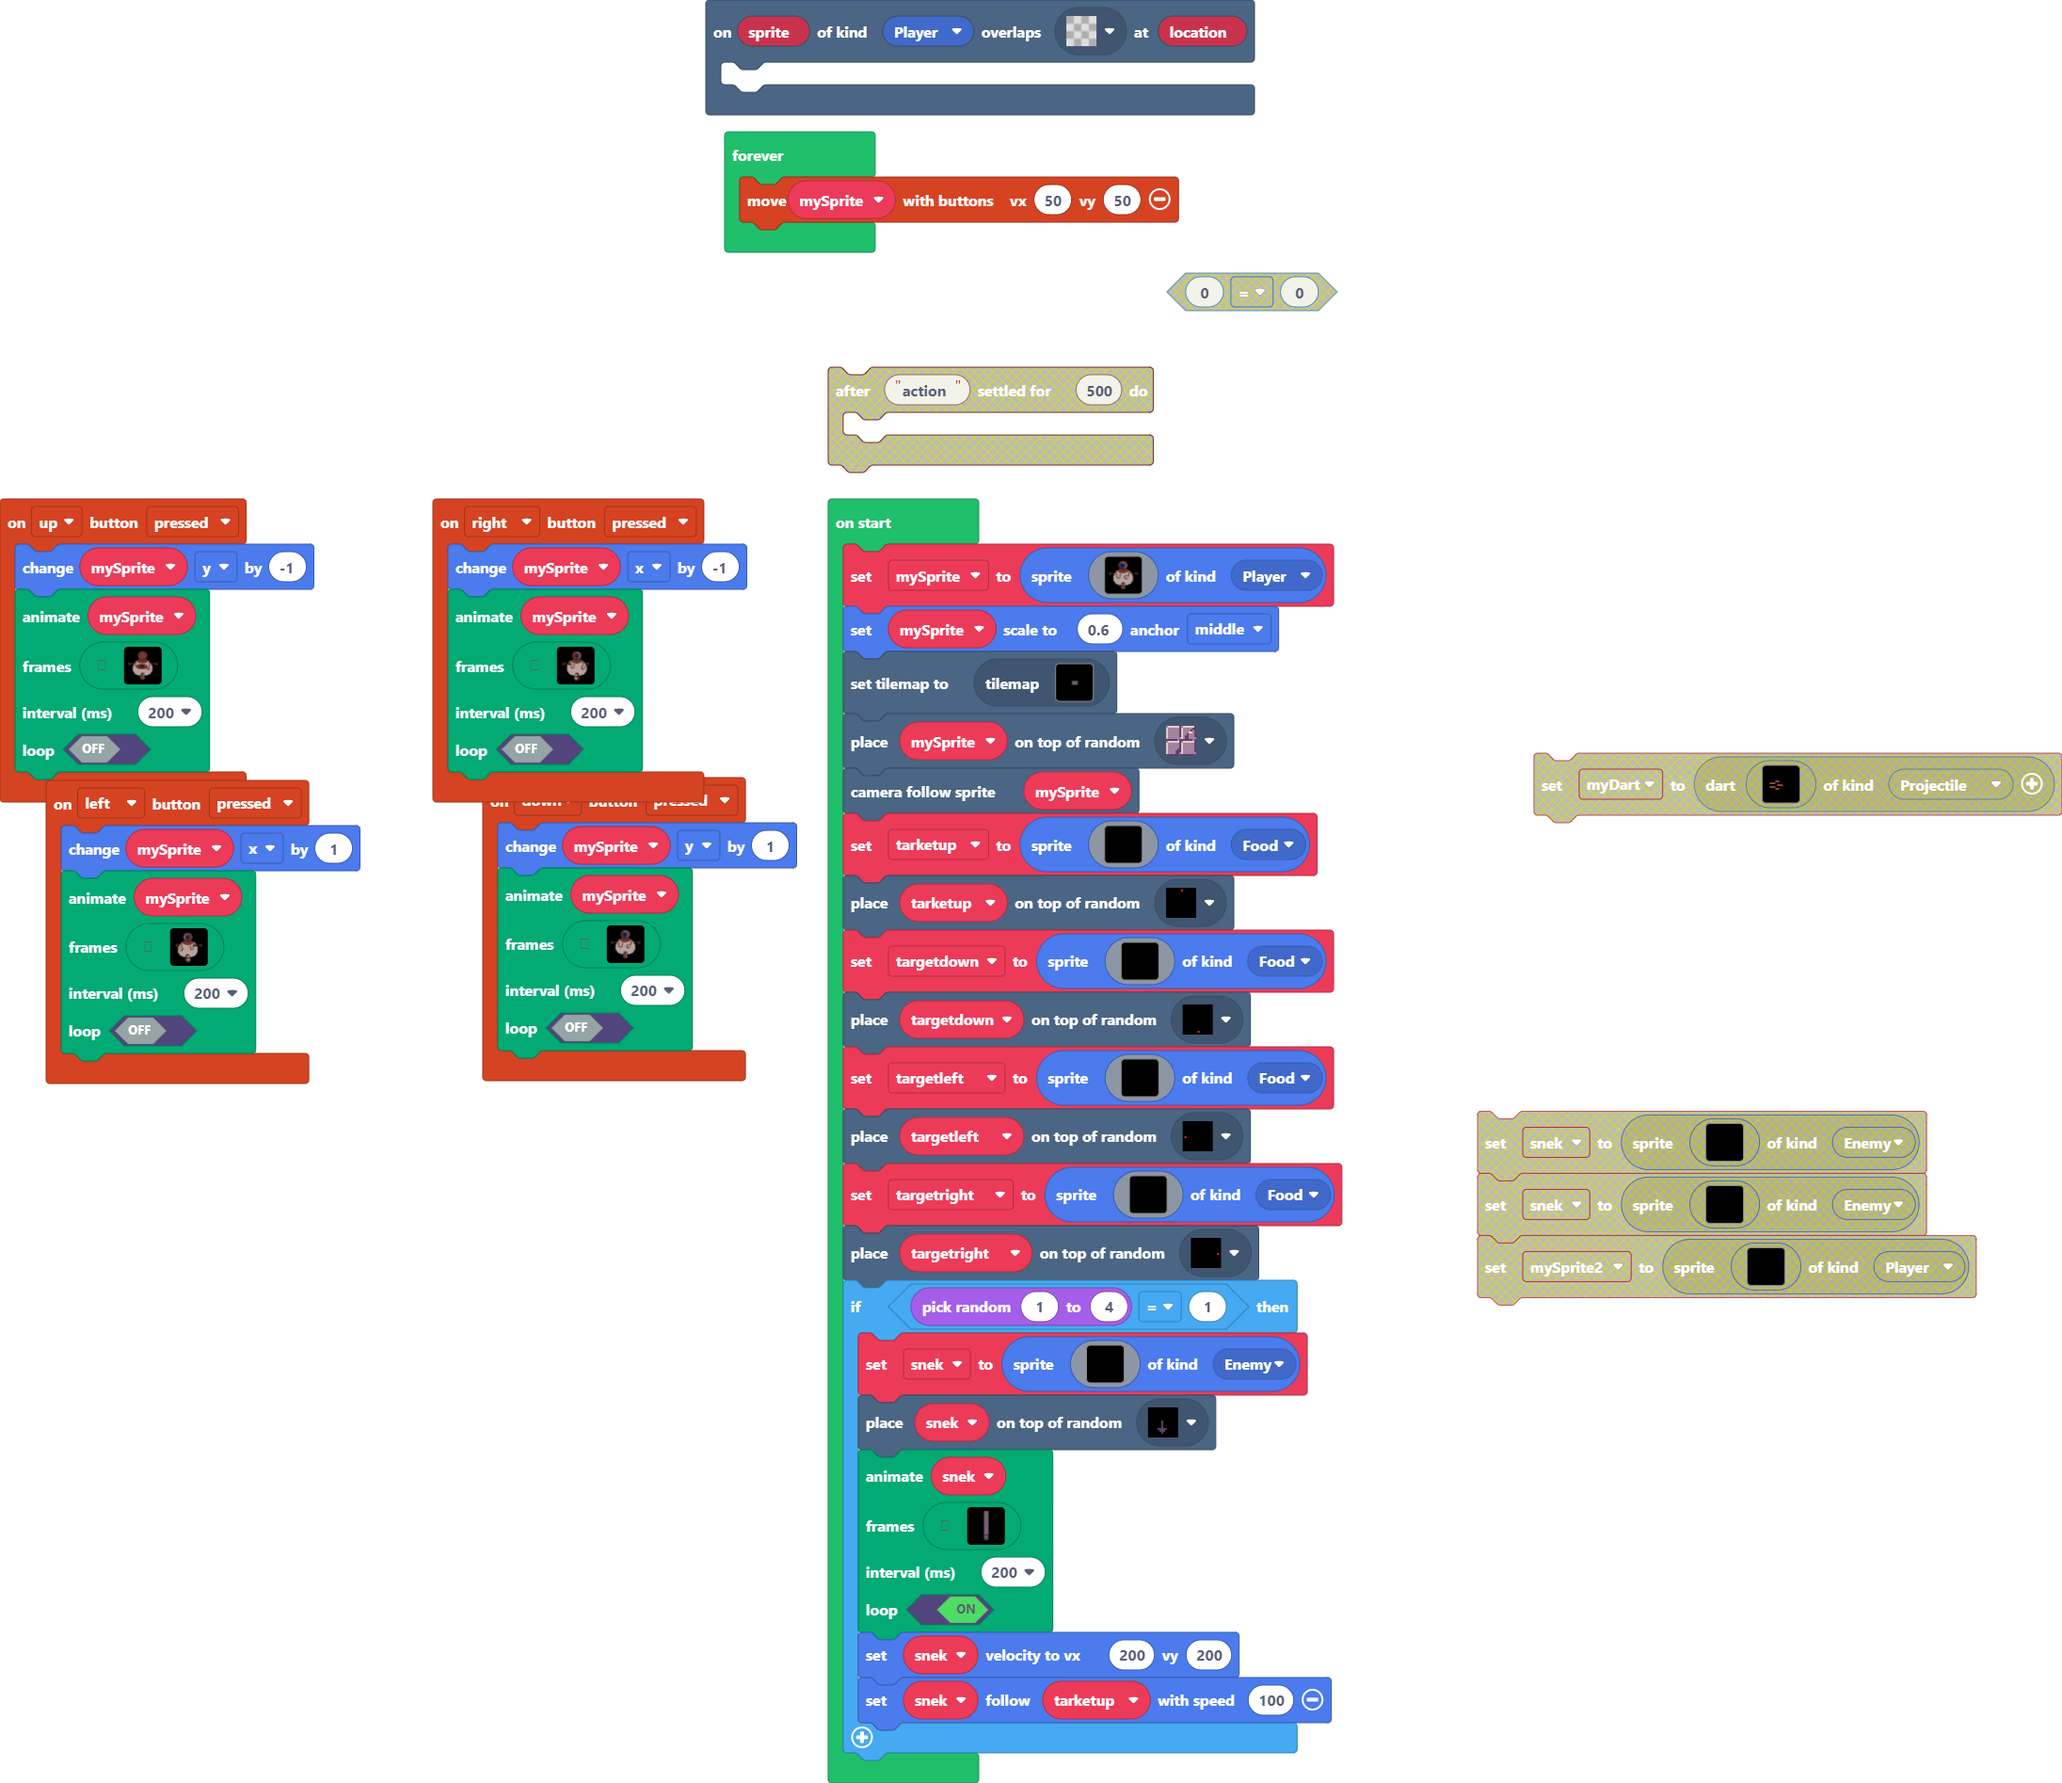
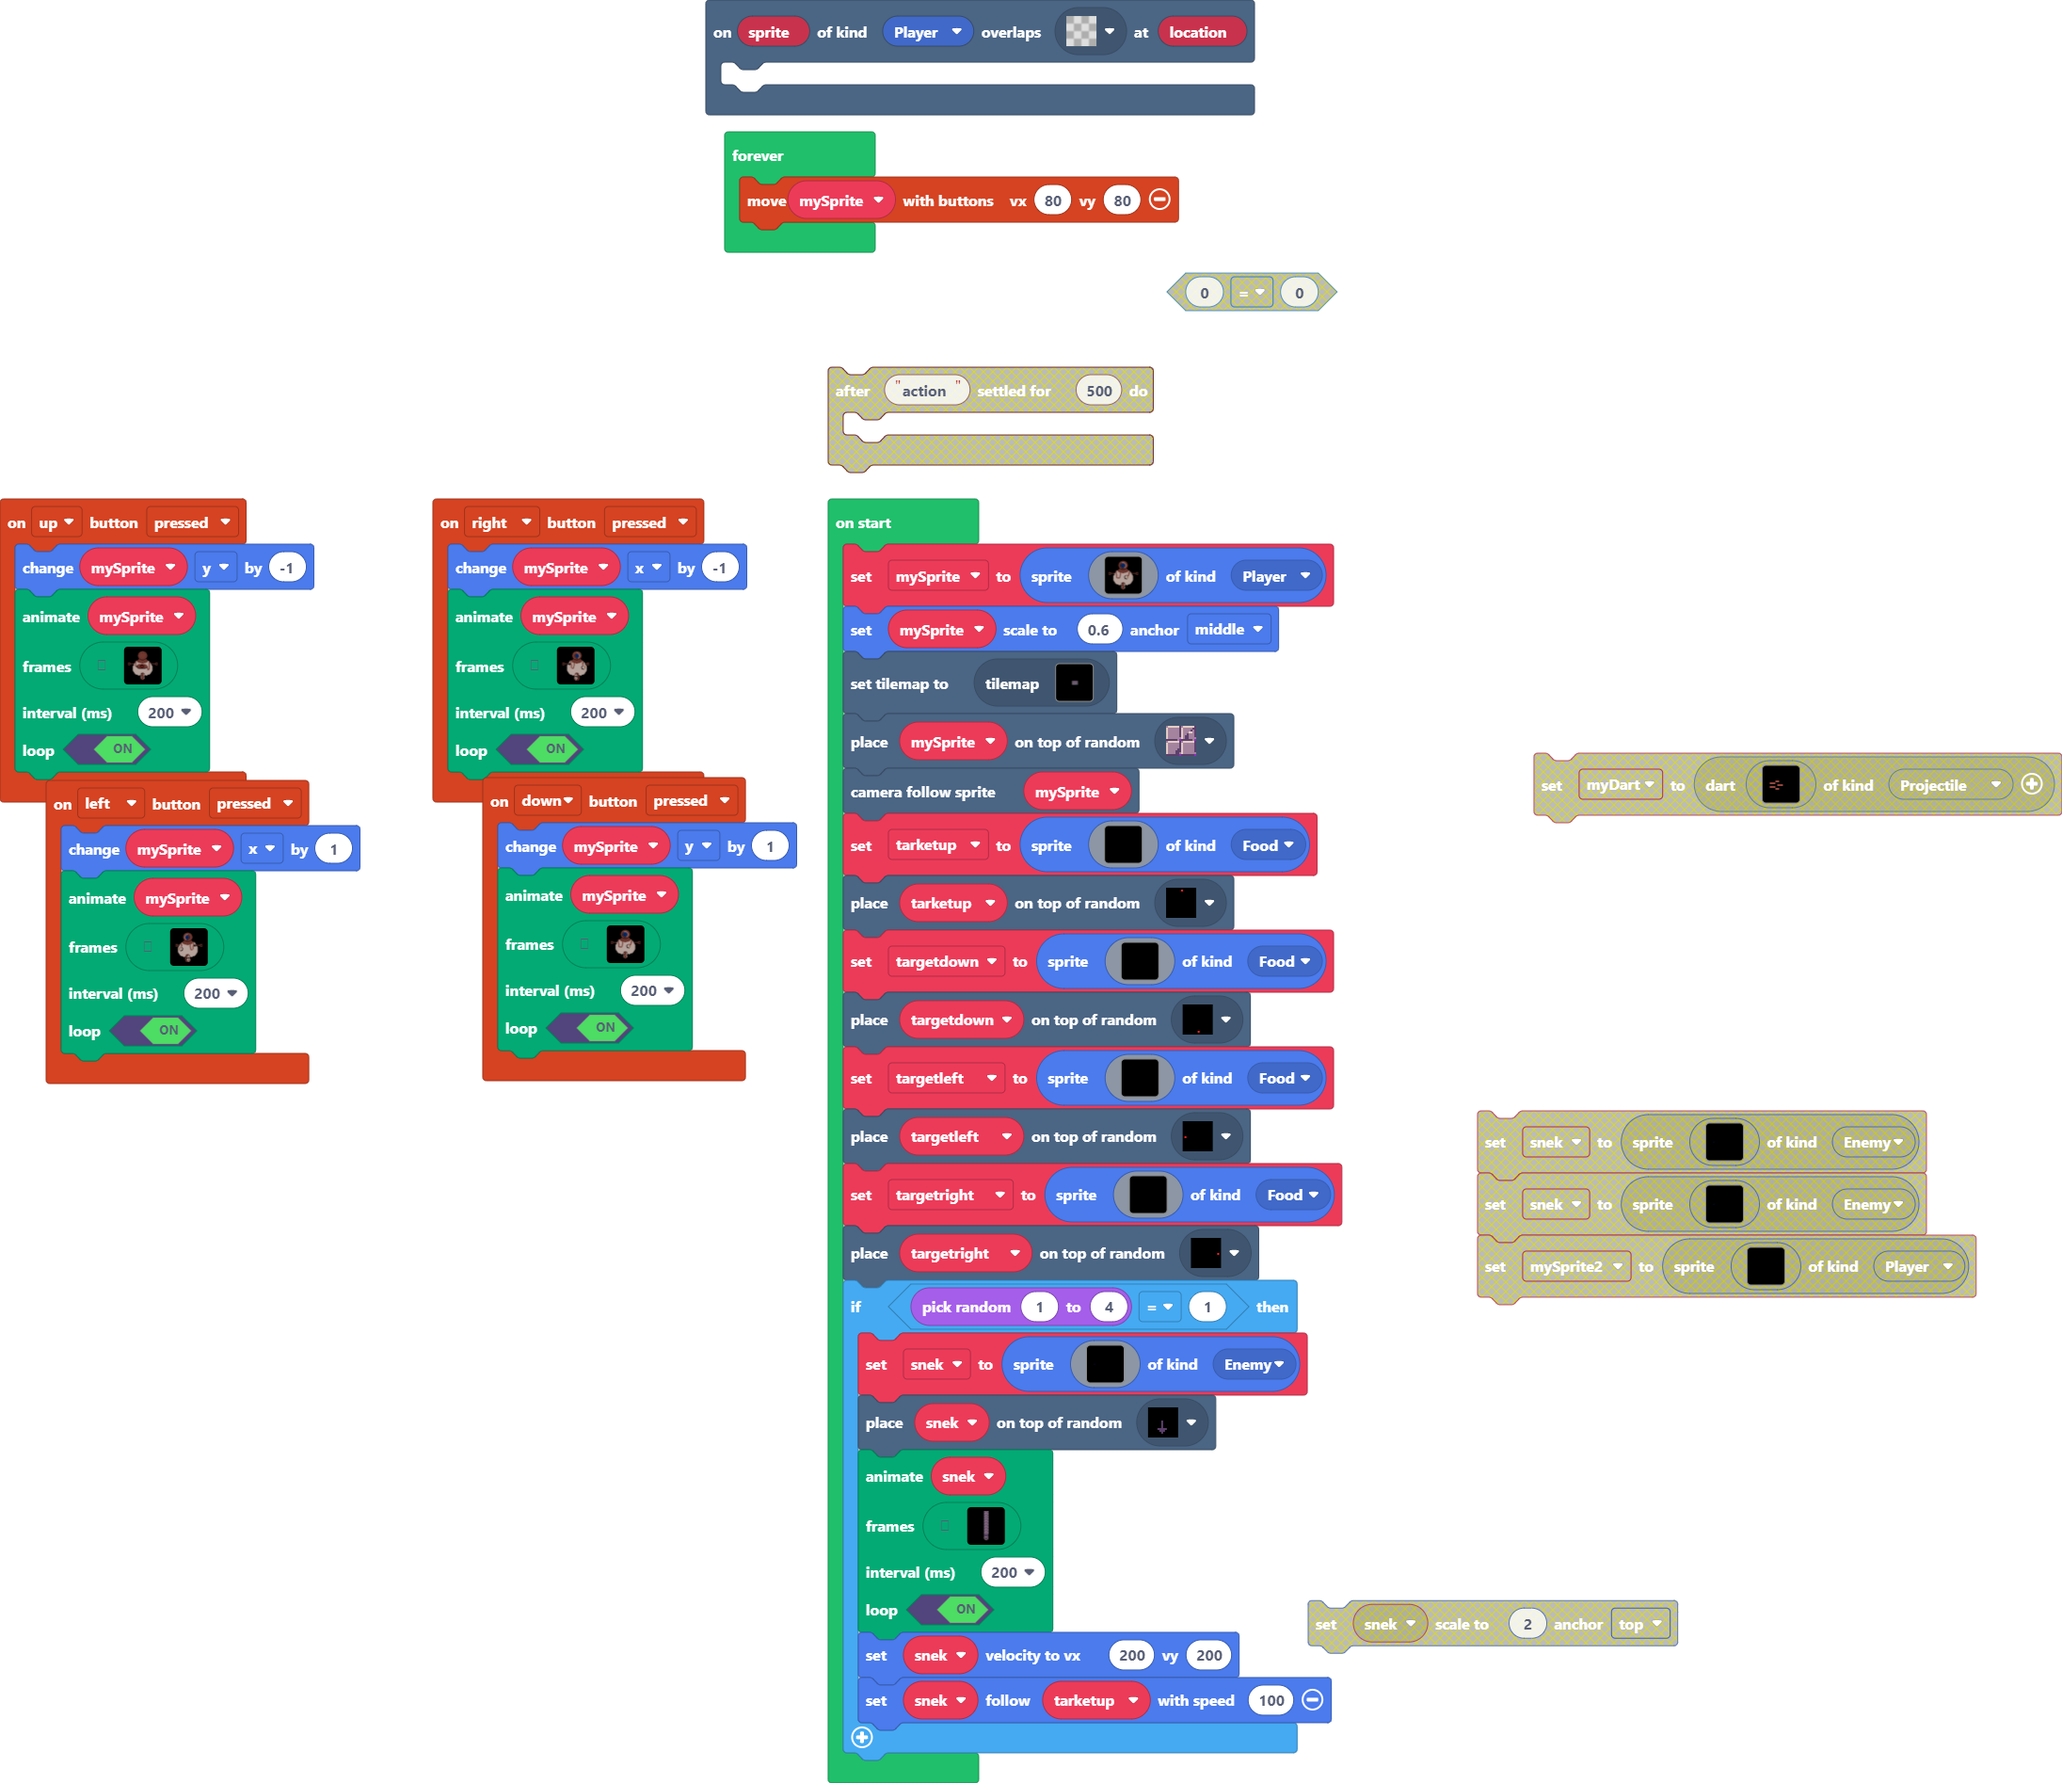
Update main.blocks, main.ts

diff --git a/main.ts b/main.ts
@@ -4,7 +4,7 @@ controller.up.onEvent(ControllerButtonEvent.Pressed, function () {
     mySprite,
     assets.animation`myAnim1`,
     200,
-    false
+    true
     )
 })
 controller.left.onEvent(ControllerButtonEvent.Pressed, function () {
@@ -13,7 +13,7 @@ controller.left.onEvent(ControllerButtonEvent.Pressed, function () {
     mySprite,
     assets.animation`walkright`,
     200,
-    false
+    true
     )
 })
 controller.right.onEvent(ControllerButtonEvent.Pressed, function () {
@@ -22,7 +22,7 @@ controller.right.onEvent(ControllerButtonEvent.Pressed, function () {
     mySprite,
     assets.animation`walkleft`,
     200,
-    false
+    true
     )
 })
 controller.down.onEvent(ControllerButtonEvent.Pressed, function () {
@@ -31,7 +31,7 @@ controller.down.onEvent(ControllerButtonEvent.Pressed, function () {
     mySprite,
     assets.animation`myAnim2`,
     200,
-    false
+    true
     )
 })
 scene.onOverlapTile(SpriteKind.Player, assets.tile`transparency16`, function (sprite, location) {
@@ -65,5 +65,5 @@ if (randint(1, 4) == 1) {
     snek.follow(tarketup, 100)
 }
 forever(function () {
-    controller.moveSprite(mySprite, 50, 50)
+    controller.moveSprite(mySprite, 80, 80)
 })
